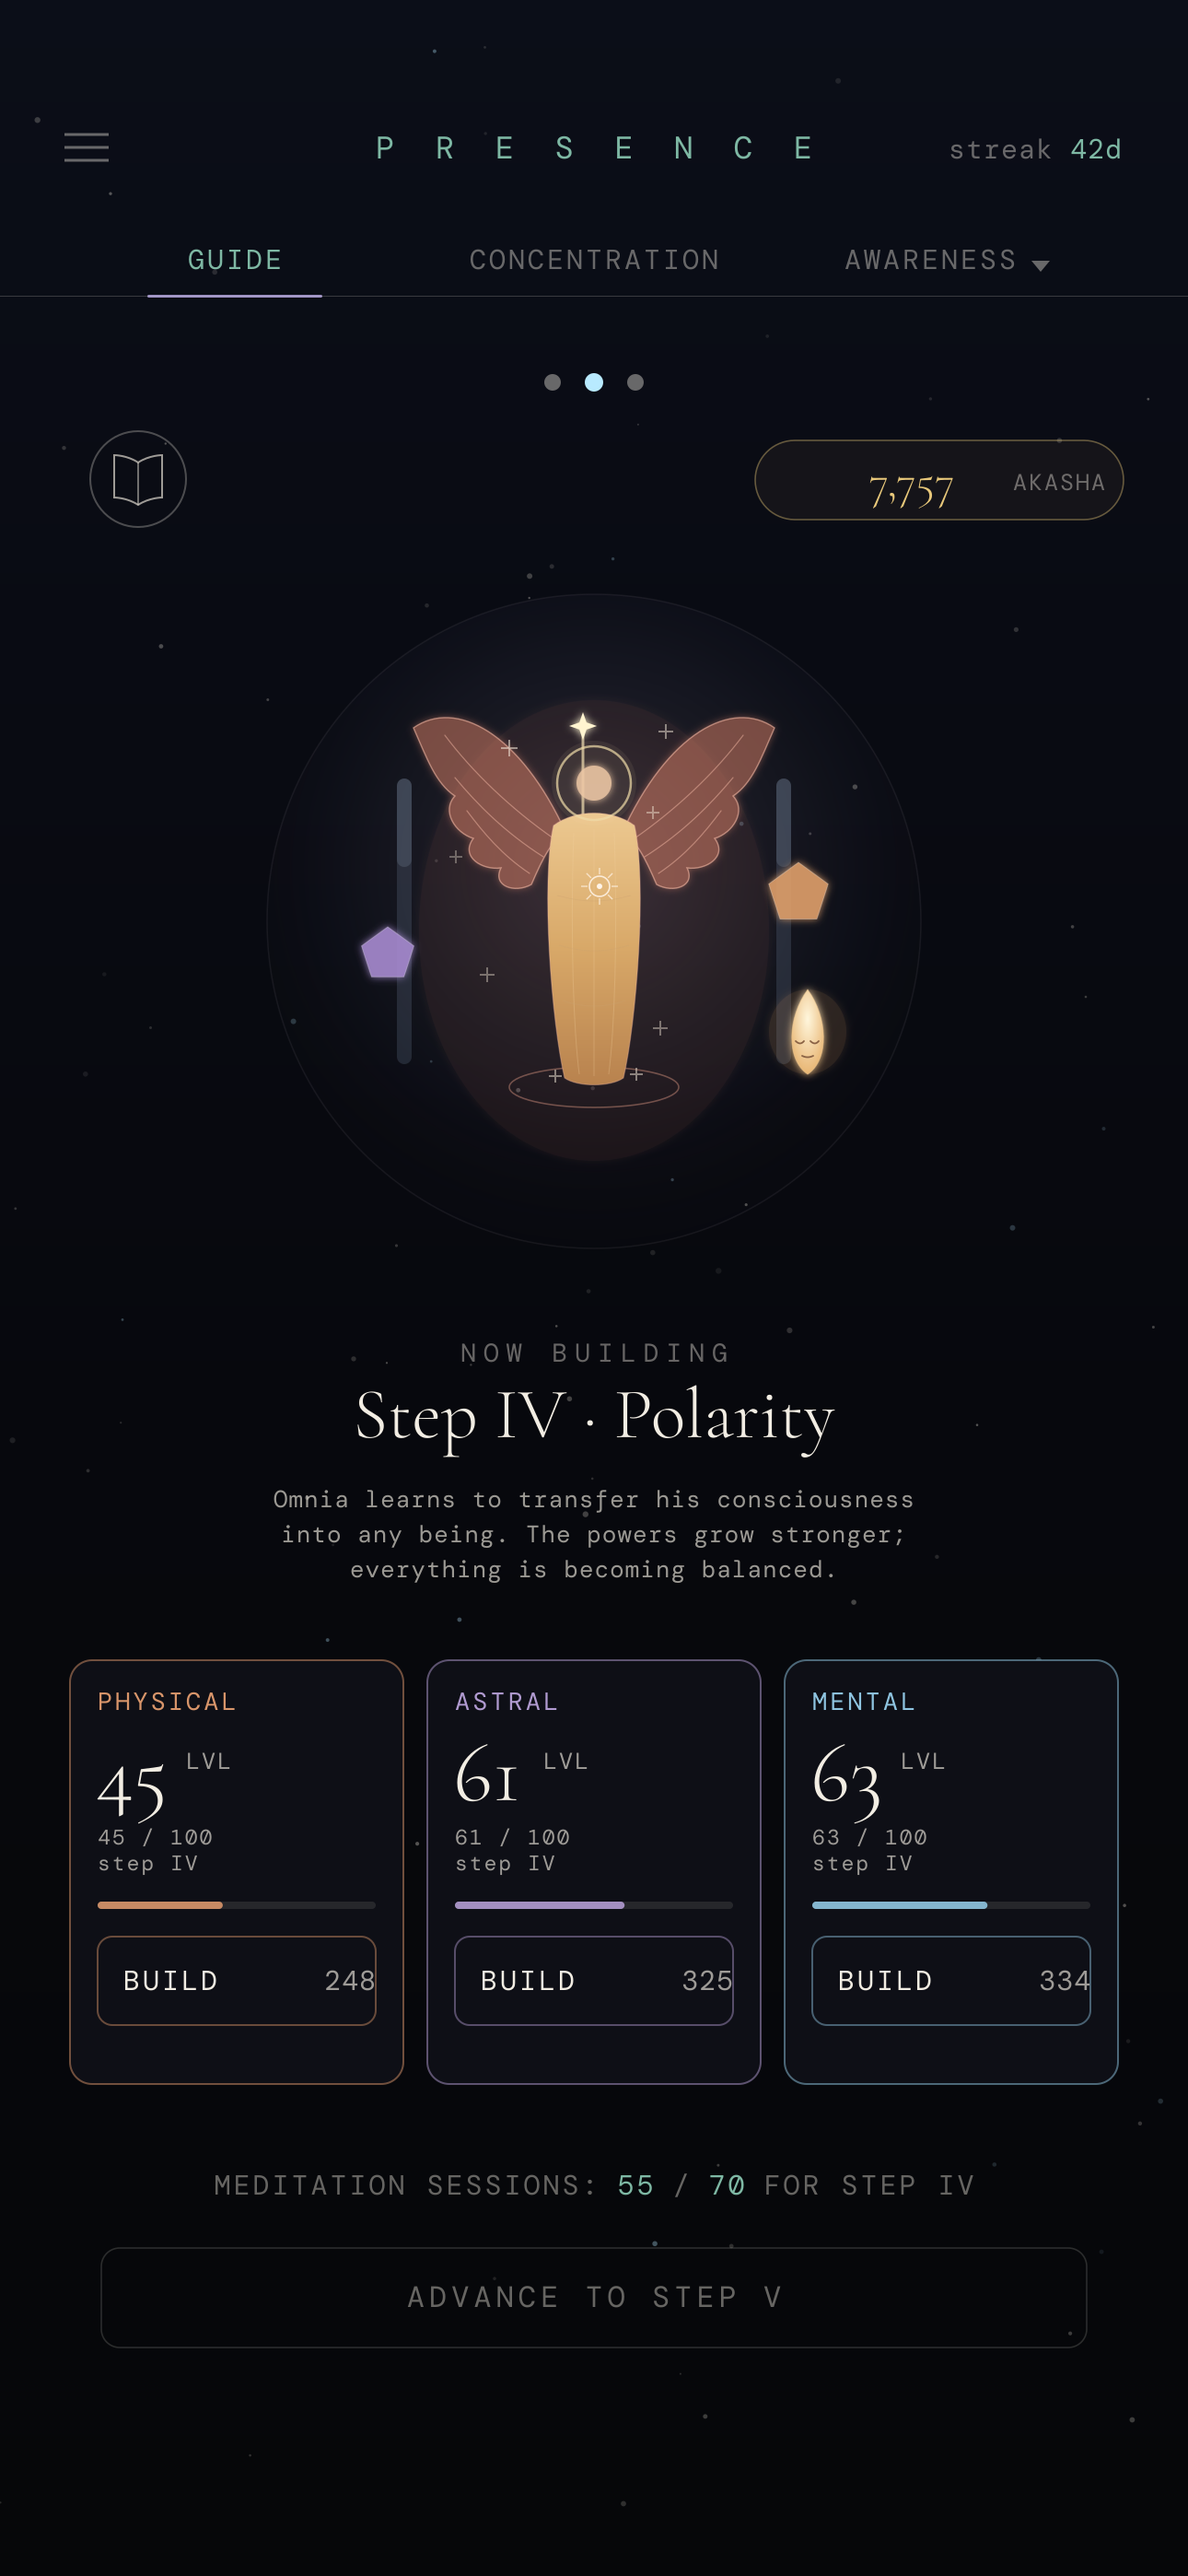
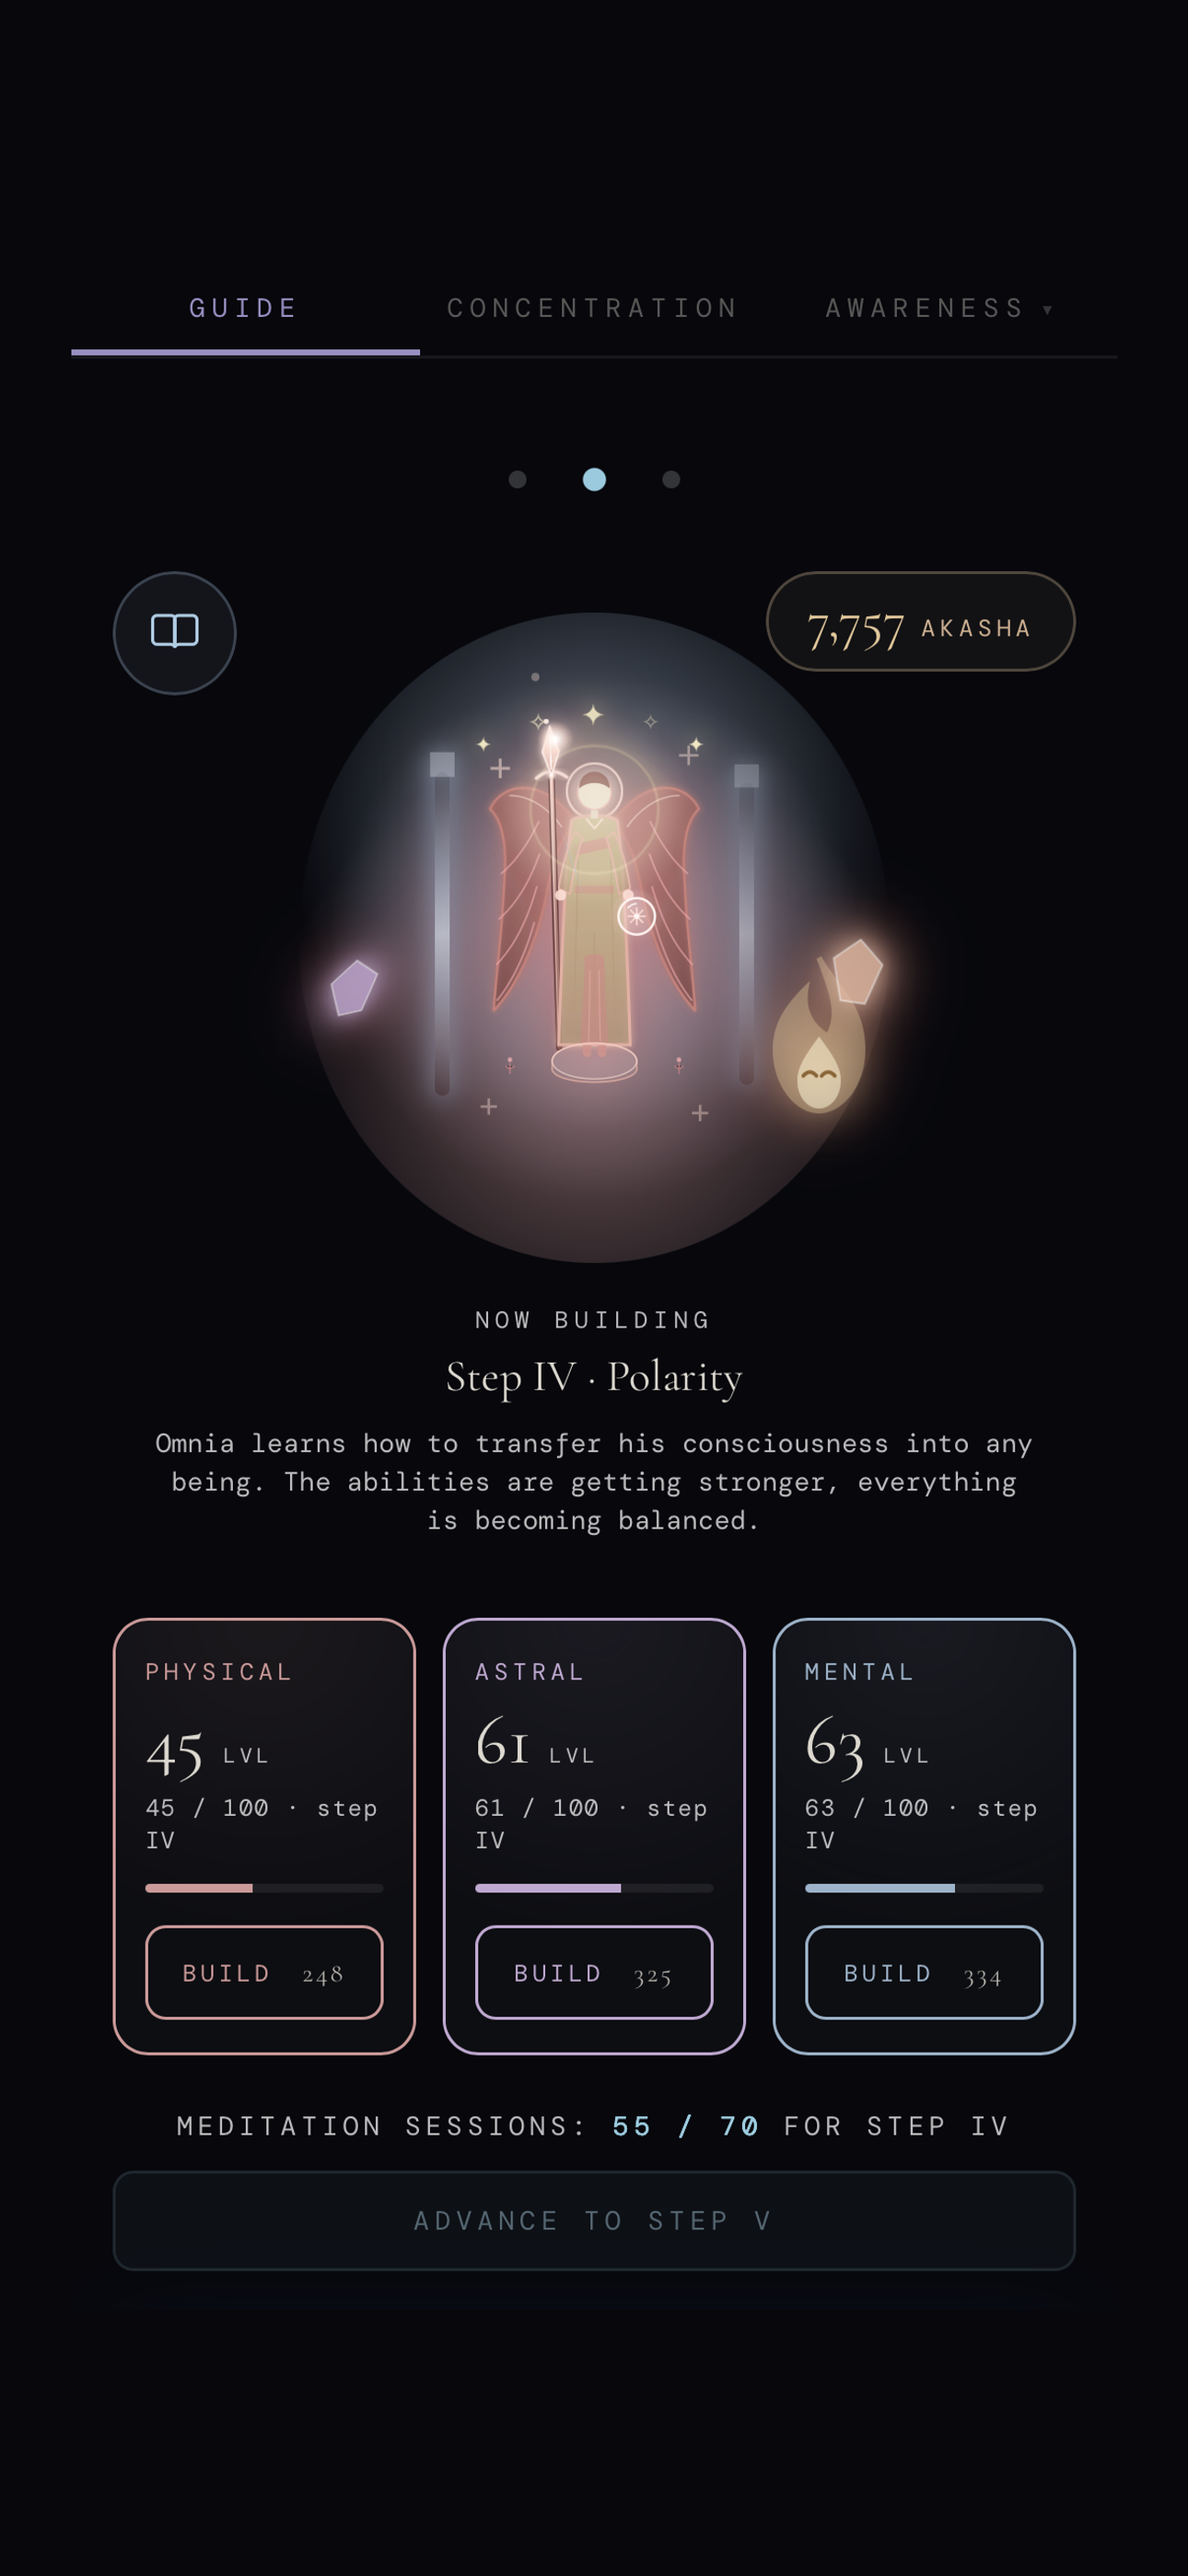
Card 06: use the real Guide screenshot, cleaned for the App Store
Replace the vector redraw with the actual in-game Guide screen. Strip the
iOS status bar, the PRESENCE/streak header, and the partial next-card at
the bottom, then center the real artwork on a matching dark canvas at
1290x2796. Adds the reproducible cleanup script + source image.

diff --git a/marketing/generate.js b/marketing/generate.js
@@ -373,161 +373,6 @@ function card5() {
   `, 83);
 }
 
-// ── card 6: the Guide screen — Omnia, now building ──────────────────────────
-
-// small "+" spark used around the figure
-function plus(x, y, sz, op) {
-  return `<g opacity="${op}"><line x1="${x - sz}" y1="${y}" x2="${x + sz}" y2="${y}" stroke="#f2e8d8" stroke-width="2"/><line x1="${x}" y1="${y - sz}" x2="${x}" y2="${y + sz}" stroke="#f2e8d8" stroke-width="2"/></g>`;
-}
-
-function pentagon(cx, cy, r, fill, op) {
-  let pts = '';
-  for (let i = 0; i < 5; i++) {
-    const a = (-90 + 72 * i) * Math.PI / 180;
-    pts += `${(cx + Math.cos(a) * r).toFixed(1)},${(cy + Math.sin(a) * r).toFixed(1)} `;
-  }
-  return `<polygon points="${pts.trim()}" fill="${fill}" opacity="${op}" filter="url(#soft)"/>
-    <polygon points="${pts.trim()}" fill="none" stroke="#fff" stroke-opacity="0.25" stroke-width="1"/>`;
-}
-
-// Omnia — the luminous winged guide, drawn in local coords then placed.
-function omniaGuide(cx, cy) {
-  const roseHi = '#f4b8a4';
-  const wing = `M -30,-95 C -80,-205 -150,-242 -196,-210 C -181,-176 -172,-150 -151,-136 C -166,-120 -151,-96 -131,-90 C -146,-70 -121,-55 -101,-58 C -111,-38 -86,-30 -68,-40 C -55,-70 -45,-90 -30,-95 Z`;
-  const feathers = `M -44,-90 C -90,-122 -132,-162 -162,-202 M -55,-70 C -96,-96 -126,-126 -151,-156 M -70,-52 C -100,-72 -120,-96 -138,-120`;
-  const wingGroup = `<path d="${wing}" fill="#e0846a" opacity="0.5" filter="url(#soft)"/>
-    <path d="${wing}" fill="none" stroke="${roseHi}" stroke-width="1.4" stroke-opacity="0.6"/>
-    <path d="${feathers}" fill="none" stroke="${roseHi}" stroke-width="1.2" stroke-opacity="0.5" stroke-linecap="round"/>`;
-
-  const pillar = (px) => `<rect x="${px - 8}" y="-155" width="16" height="310" rx="8" fill="#7f92ad" opacity="0.20"/>
-    <rect x="${px - 8}" y="-155" width="16" height="96" rx="8" fill="#aebfd6" opacity="0.16"/>`;
-
-  // chest sigil rays
-  let rays = '';
-  for (let i = 0; i < 8; i++) {
-    const a = (i / 8) * Math.PI * 2;
-    rays += `<line x1="${(6 + Math.cos(a) * 13).toFixed(1)}" y1="${(-38 + Math.sin(a) * 13).toFixed(1)}" x2="${(6 + Math.cos(a) * 20).toFixed(1)}" y2="${(-38 + Math.sin(a) * 20).toFixed(1)}" stroke="#fff4e8" stroke-width="1.4" opacity="0.7"/>`;
-  }
-
-  const sparks = [[-92, -188, 9, 0.55], [78, -206, 8, 0.5], [64, -118, 7, 0.45],
-                  [-116, 58, 8, 0.4], [72, 116, 8, 0.42], [-42, 168, 7, 0.5],
-                  [46, 166, 7, 0.5], [-150, -70, 7, 0.35]].map(p => plus(...p)).join('');
-
-  return `<g transform="translate(${cx},${cy})">
-    ${pillar(-206)} ${pillar(206)}
-    <ellipse cx="0" cy="180" rx="92" ry="22" fill="none" stroke="#f0a890" stroke-opacity="0.4" stroke-width="1.6"/>
-    <ellipse cx="0" cy="10" rx="190" ry="250" fill="#e0846a" opacity="0.08" filter="url(#soft)"/>
-    ${wingGroup}
-    <g transform="scale(-1,1)">${wingGroup}</g>
-    <line x1="-12" y1="-210" x2="-12" y2="160" stroke="#e8d6ac" stroke-width="3" opacity="0.75"/>
-    <path d="M -44,-104 C -58,-42 -46,110 -32,170 C -18,180 18,180 32,170 C 46,110 58,-42 44,-104 C 20,-122 -20,-122 -44,-104 Z" fill="url(#robeGrad)" stroke="${roseHi}" stroke-width="1.2" stroke-opacity="0.35"/>
-    <path d="M 0,-100 L 0,168 M -22,-96 C -26,20 -22,120 -16,166 M 22,-96 C 26,20 22,120 16,166" fill="none" stroke="#f0d0a0" stroke-width="1" stroke-opacity="0.28"/>
-    <path d="M -40,-28 C -10,-20 10,-20 40,-28 M -38,26 C -12,34 12,34 38,26 M -34,86 C -11,94 11,94 34,86" fill="none" stroke="#caa070" stroke-width="1" stroke-opacity="0.3"/>
-    <ellipse cx="0" cy="-150" rx="46" ry="46" fill="#f0dca8" opacity="0.08"/>
-    <circle cx="0" cy="-150" r="40" fill="none" stroke="#f0dca8" stroke-width="2.5" opacity="0.7"/>
-    <circle cx="0" cy="-150" r="19" fill="#ecc6a4" opacity="0.9" filter="url(#soft)"/>
-    <circle cx="6" cy="-38" r="11" fill="none" stroke="#fff4e8" stroke-width="1.6" opacity="0.85"/>
-    <circle cx="6" cy="-38" r="3" fill="#fff4e8"/>
-    ${rays}
-    ${star4(-12, -212, 15, '#fff4d0', 1)}
-    ${sparks}
-    ${pentagon(-224, 36, 30, '#a78bd0', 0.9)}
-    ${pentagon(222, -30, 34, '#e0a06a', 0.9)}
-    <ellipse cx="232" cy="120" rx="42" ry="46" fill="#ffb870" opacity="0.14" filter="url(#soft)"/>
-    <path d="M 232,74 C 210,104 208,150 232,166 C 256,150 254,104 232,74 Z" fill="url(#flameGrad)" stroke="#f0c890" stroke-width="1" stroke-opacity="0.5" filter="url(#soft)"/>
-    <path d="M 219,130 q 5,5 9,0 M 235,130 q 5,5 9,0 M 226,146 q 6,3 12,0" fill="none" stroke="#8a6244" stroke-width="1.8" stroke-linecap="round"/>
-  </g>`;
-}
-
-// a body card (Physical / Astral / Mental)
-function bodyCard(x, y, w, h, o) {
-  const px = x + 30;
-  return `
-  <rect x="${x}" y="${y}" width="${w}" height="${h}" rx="24" fill="#0e0f16"/>
-  <rect x="${x}" y="${y}" width="${w}" height="${h}" rx="24" fill="none" stroke="${o.c}" stroke-opacity="0.5" stroke-width="2"/>
-  ${mono(px, y + 54, 27, o.c, o.label, 3, 'start')}
-  ${serif(px - 2, y + 152, 92, INK, o.lvl, 'start')}
-  ${mono(px + 96, y + 118, 25, INK2, 'LVL', 2, 'start')}
-  ${mono(px, y + 200, 23, INK2, o.cur, 2, 'start')}
-  ${mono(px, y + 228, 23, INK2, 'step IV', 2, 'start')}
-  <rect x="${px}" y="${y + 262}" width="${w - 60}" height="8" rx="4" fill="rgba(221,216,206,0.12)"/>
-  <rect x="${px}" y="${y + 262}" width="${(w - 60) * o.prog}" height="8" rx="4" fill="${o.c}" opacity="0.9"/>
-  <rect x="${px}" y="${y + 300}" width="${w - 60}" height="96" rx="16" fill="none" stroke="${o.c}" stroke-opacity="0.45" stroke-width="2"/>
-  ${mono(px + 28, y + 358, 30, INK, 'BUILD', 3, 'start')}
-  ${mono(x + w - 30, y + 358, 30, INK2, o.cost, 1, 'end')}`;
-}
-
-function card6() {
-  const ocx = W / 2, ocy = 1000, R = 355;
-  // top chrome
-  const chrome = `
-  <line x1="70" y1="146" x2="118" y2="146" stroke="${MUTED}" stroke-width="3"/>
-  <line x1="70" y1="160" x2="118" y2="160" stroke="${MUTED}" stroke-width="3"/>
-  <line x1="70" y1="174" x2="118" y2="174" stroke="${MUTED}" stroke-width="3"/>
-  ${mono(W / 2, 172, 34, ACCENT, 'P R E S E N C E', 12)}
-  <text x="${W - 72}" y="172" font-family="${MONO}" font-size="30" fill="${MUTED}" letter-spacing="1" text-anchor="end">streak <tspan fill="${ACCENT}">42d</tspan></text>
-  ${mono(255, 292, 30, ACCENT, 'GUIDE', 3)}
-  ${mono(645, 292, 30, MUTED, 'CONCENTRATION', 3)}
-  ${mono(1010, 292, 30, MUTED, 'AWARENESS', 3)}
-  <polygon points="1120,283 1140,283 1130,295" fill="${MUTED}"/>
-  <rect x="160" y="320" width="190" height="3" rx="1.5" fill="${PURPLE}"/>
-  <line x1="0" y1="321.5" x2="${W}" y2="321.5" stroke="${MUTED}" stroke-opacity="0.5" stroke-width="1"/>
-  <circle cx="600" cy="415" r="9" fill="${MUTED}"/>
-  <circle cx="645" cy="415" r="10" fill="${BLUE}"/>
-  <circle cx="690" cy="415" r="9" fill="${MUTED}"/>`;
-
-  // book icon (top-left) + akasha pill (top-right)
-  const book = `
-  <circle cx="150" cy="520" r="52" fill="none" stroke="${MUTED}" stroke-width="2" stroke-opacity="0.7"/>
-  <path d="M 150,502 C 138,494 124,494 124,494 L 124,540 C 124,540 138,540 150,548 C 162,540 176,540 176,540 L 176,494 C 176,494 162,494 150,502 Z" fill="none" stroke="${TEXT}" stroke-width="2" stroke-opacity="0.7"/>
-  <line x1="150" y1="502" x2="150" y2="548" stroke="${TEXT}" stroke-width="1.6" stroke-opacity="0.6"/>`;
-  const pill = `
-  <rect x="${W - 470}" y="478" width="400" height="86" rx="43" fill="${GOLD}" opacity="0.05"/>
-  <rect x="${W - 470}" y="478" width="400" height="86" rx="43" fill="none" stroke="${GOLD}" stroke-opacity="0.4" stroke-width="1.6"/>
-  ${serif(W - 300, 538, 50, GOLD, '7,757', 'middle')}
-  ${mono(W - 140, 532, 25, MUTED, 'AKASHA', 2)}`;
-
-  // three bodies
-  const m = 76, gap = 26, cw = (W - 2 * m - 2 * gap) / 3, cy = 1802, ch = 460;
-  const cards = bodyCard(m, cy, cw, ch, { label: 'PHYSICAL', lvl: '45', cur: '45 / 100', cost: '248', prog: 0.45, c: '#d8956a' })
-    + bodyCard(m + cw + gap, cy, cw, ch, { label: 'ASTRAL', lvl: '61', cur: '61 / 100', cost: '325', prog: 0.61, c: '#b09ad0' })
-    + bodyCard(m + 2 * (cw + gap), cy, cw, ch, { label: 'MENTAL', lvl: '63', cur: '63 / 100', cost: '334', prog: 0.63, c: '#8ec4e0' });
-
-  return shell(`
-  <defs>
-    <radialGradient id="orbGrad" cx="0.5" cy="0.42" r="0.62">
-      <stop offset="0" stop-color="#b8a0b0" stop-opacity="0.22"/>
-      <stop offset="0.55" stop-color="#6a6480" stop-opacity="0.10"/>
-      <stop offset="1" stop-color="#07080d" stop-opacity="0"/>
-    </radialGradient>
-    <linearGradient id="robeGrad" x1="0" y1="0" x2="0" y2="1">
-      <stop offset="0" stop-color="#ecc890"/>
-      <stop offset="0.5" stop-color="#d8a868"/>
-      <stop offset="1" stop-color="#b8824e"/>
-    </linearGradient>
-    <radialGradient id="flameGrad" cx="0.5" cy="0.35" r="0.7">
-      <stop offset="0" stop-color="#fff6dc"/>
-      <stop offset="1" stop-color="#e6b06a"/>
-    </radialGradient>
-  </defs>
-  ${chrome}
-  ${book}
-  ${pill}
-  <circle cx="${ocx}" cy="${ocy}" r="${R}" fill="url(#orbGrad)"/>
-  <circle cx="${ocx}" cy="${ocy}" r="${R}" fill="none" stroke="#c8bcc8" stroke-opacity="0.08" stroke-width="1.5"/>
-  ${omniaGuide(ocx, ocy)}
-  ${mono(W / 2, 1478, 28, MUTED, 'NOW BUILDING', 8)}
-  ${serif(W / 2, 1560, 78, INK, 'Step IV · Polarity', 'middle')}
-  ${mono(W / 2, 1636, 26, INK2, 'Omnia learns to transfer his consciousness', 1)}
-  ${mono(W / 2, 1674, 26, INK2, 'into any being. The powers grow stronger;', 1)}
-  ${mono(W / 2, 1712, 26, INK2, 'everything is becoming balanced.', 1)}
-  ${cards}
-  <text x="${W / 2}" y="2382" font-family="${MONO}" font-size="30" fill="${MUTED}" letter-spacing="3" text-anchor="middle">MEDITATION SESSIONS: <tspan fill="${ACCENT}">55</tspan> / <tspan fill="${ACCENT}">70</tspan> FOR STEP IV</text>
-  <rect x="110" y="2440" width="${W - 220}" height="108" rx="20" fill="none" stroke="${MUTED}" stroke-opacity="0.4" stroke-width="1.6"/>
-  ${mono(W / 2, 2504, 32, MUTED, 'ADVANCE TO STEP V', 5)}
-  `, 53);
-}
-
 // ── render ───────────────────────────────────────────────────────────────────
 
 (async () => {
@@ -537,7 +382,6 @@ function card6() {
     ['03-omnia.png', card3()],
     ['04-path.png', card4()],
     ['05-progress.png', card5()],
-    ['06-guide.png', card6()],
   ];
   for (const [name, svg] of cards) {
     await sharp(Buffer.from(svg), { density: 72 }).png().toFile(path.join(OUT, name));

diff --git a/marketing/clean-guide-screenshot.js b/marketing/clean-guide-screenshot.js
@@ -1,0 +1,25 @@
+// Turns the raw Guide-screen screenshot (06-guide-source.png) into an
+// App Store-ready 06-guide.png: strips the iOS status bar + PRESENCE/streak
+// header and the partial next-card at the bottom, then centers the real
+// in-game artwork on a matching dark canvas at 1290x2796.
+const sharp = require('/tmp/node_modules/sharp');
+const path = require('path');
+const DIR = __dirname;
+const SRC = path.join(DIR, '06-guide-source.png');
+const OUT = path.join(DIR, '06-guide.png');
+const BG = { r:7, g:7, b:12, alpha:1 };   // sampled from the app background
+const CANVAS_W = 1290, CANVAS_H = 2796;
+const CROP_TOP = 285;      // below the status bar + PRESENCE/streak row
+const CROP_BOTTOM = 2358;  // above the partial next-card
+(async () => {
+  const cropped = await sharp(SRC)
+    .extract({ left:0, top:CROP_TOP, width:1206, height:CROP_BOTTOM - CROP_TOP })
+    .toBuffer();
+  const scaled = await sharp(cropped).resize({ width:CANVAS_W }).toBuffer();
+  const s = await sharp(scaled).metadata();
+  const topPad = Math.max(0, Math.round((CANVAS_H - s.height) / 2));
+  await sharp({ create:{ width:CANVAS_W, height:CANVAS_H, channels:4, background:BG } })
+    .composite([{ input:scaled, left:0, top:topPad }])
+    .png().toFile(OUT);
+  console.log('wrote', OUT);
+})();
